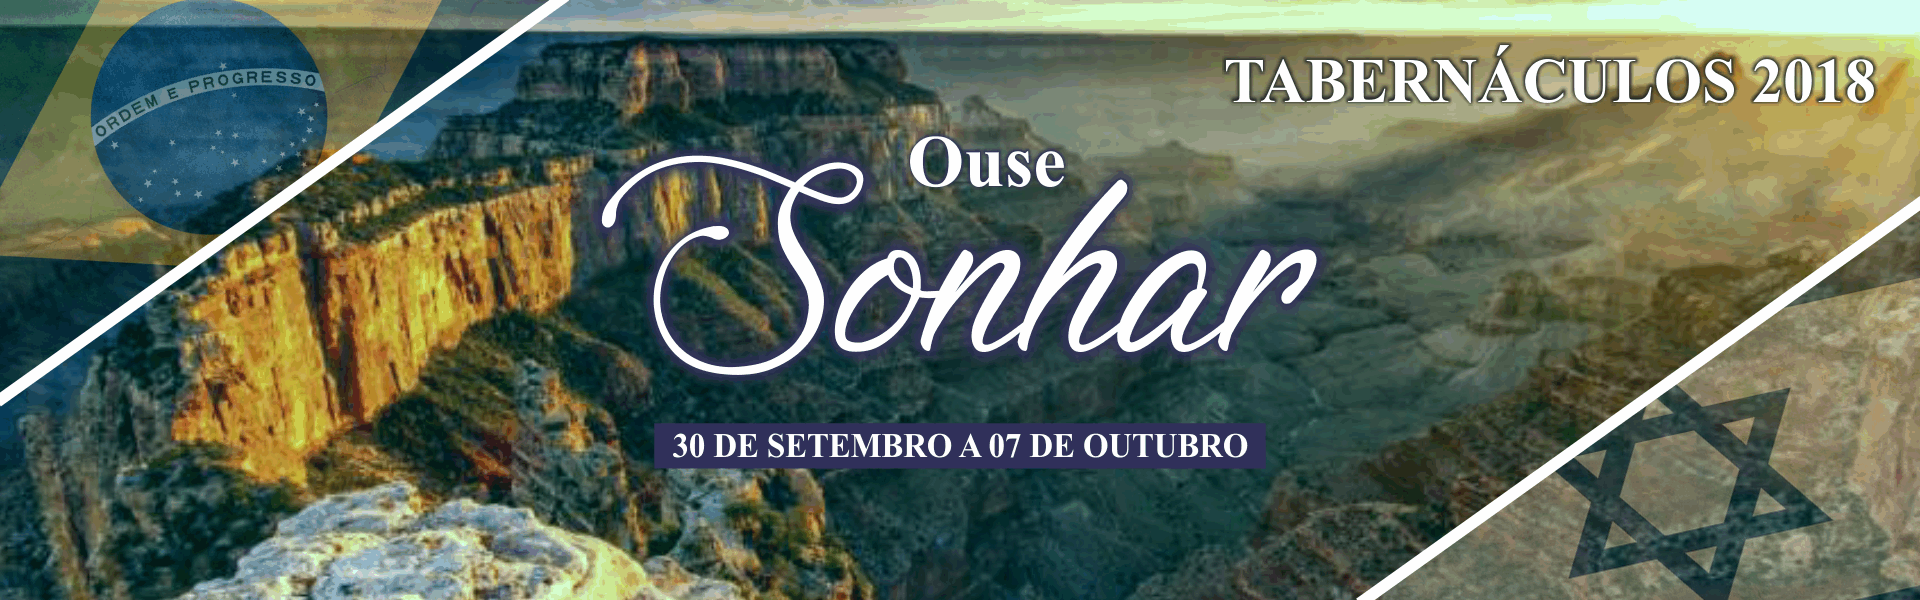
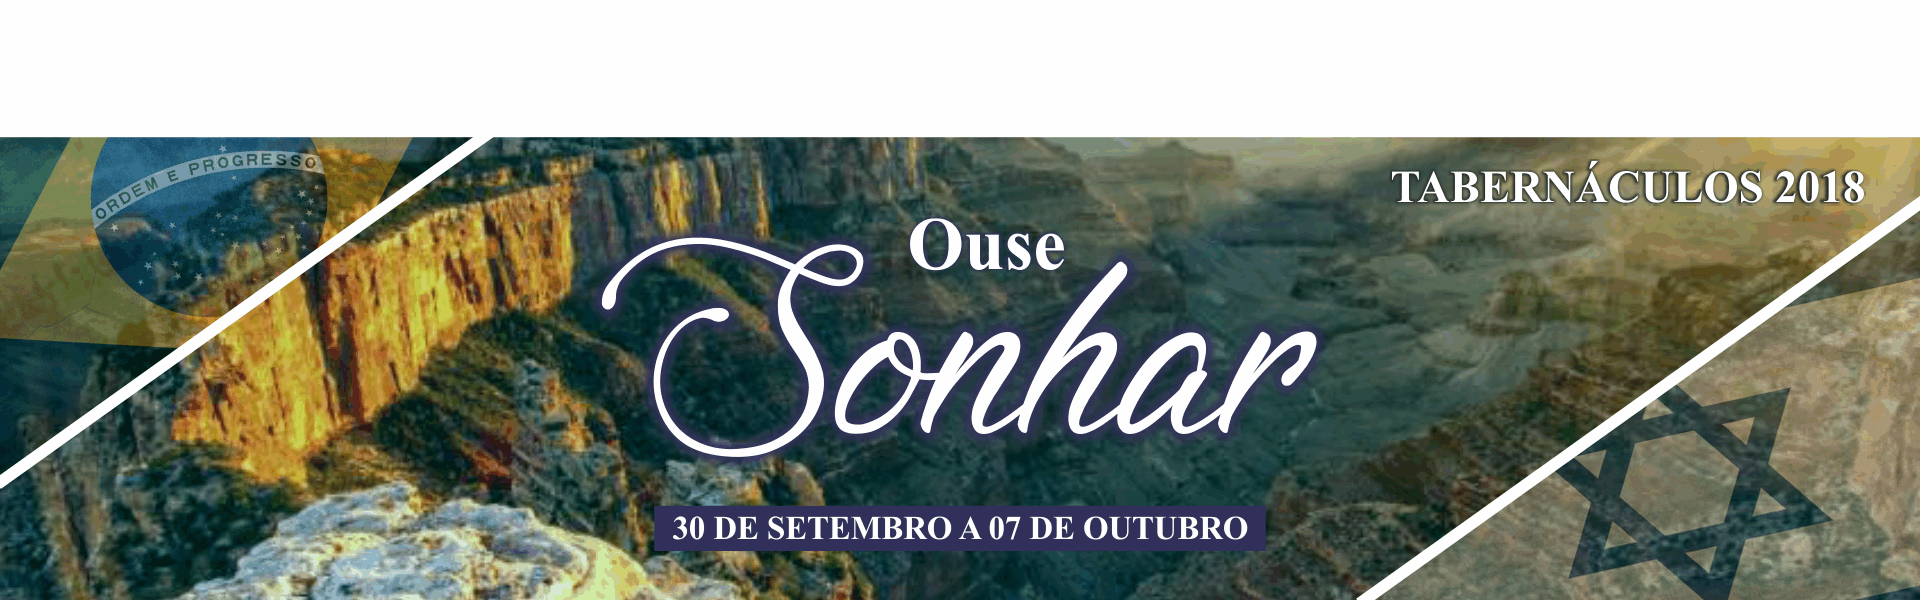
Corrigindo a image do slider para não cobrir o menu

diff --git a/css/extras.css b/css/extras.css
@@ -82,6 +82,11 @@ a a:focus {
   outline: none;
 }
 
+
+.navbar-nav .nav-link{
+  color: #585b60;
+}
+
 .navbar-expand-lg .navbar-nav .active > .nav-link,
 .navbar-expand-lg .navbar-nav .nav-link.active,
 .navbar-expand-lg .navbar-nav .nav-link.open,
